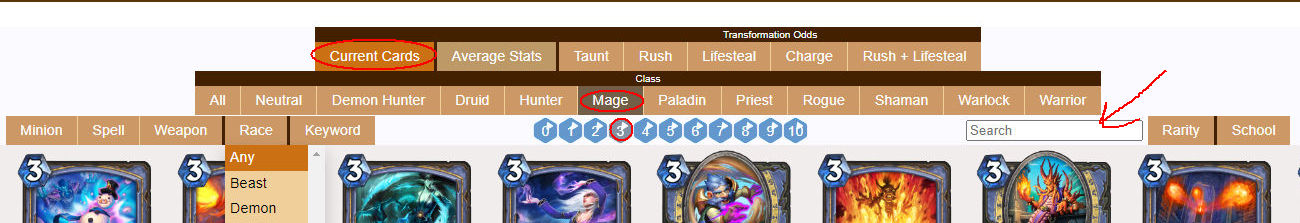
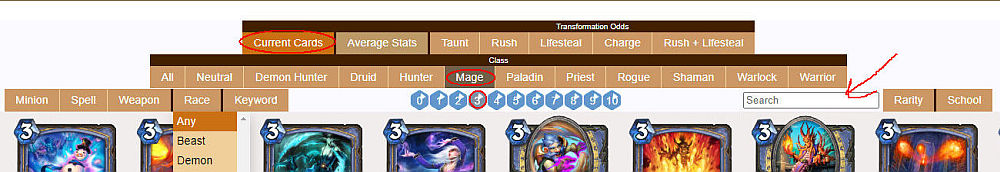
Add Secret type to filter
Added a special type 'Secret' which will only show secrets.

Changed region(s): [[0.0, 0.6686, 0.992, 1.0], [0.0, 0.1163, 0.992, 0.6686], [0.0, 0.0, 1.0, 0.0291]]

diff --git a/index.html b/index.html
@@ -80,6 +80,7 @@
           <li><a href="#" class="nav-list__button nav-list__button-standard">Minion</a></li>
           <li><a href="#" class="nav-list__button nav-list__button-standard">Spell</a></li>
           <li><a href="#" class="nav-list__button nav-list__button-standard">Weapon</a></li>
+          <li><a href="#" class="nav-list__button nav-list__button-standard">Secret</a></li>
         </ul>
       </div>
       <div class="nav__element nav__element-padding"></div>
@@ -100,7 +101,26 @@
           </div>
         </div>
       </div>
-      <div class="nav__element nav__element-padding"></div>
+    </div>
+    <div class="nav__element">
+      <ul class="nav__list nav__list-cost">
+        <li><a href="#" class="nav-list__button">0</a></li>
+        <li><a href="#" class="nav-list__button">1</a></li>
+        <li><a href="#" class="nav-list__button">2</a></li>
+        <li><a href="#" class="nav-list__button">3</a></li>
+        <li><a href="#" class="nav-list__button">4</a></li>
+        <li><a href="#" class="nav-list__button">5</a></li>
+        <li><a href="#" class="nav-list__button">6</a></li>
+        <li><a href="#" class="nav-list__button">7</a></li>
+        <li><a href="#" class="nav-list__button">8</a></li>
+        <li><a href="#" class="nav-list__button">9</a></li>
+        <li><a href="#" class="nav-list__button">10</a></li>
+      </ul>
+    </div>
+    <div class="nav__row">
+      <div class="nav__element">
+        <input type="text" class="input-search" placeholder="Search" minlength="3" maxlength=30">
+      </div>
       <div class="nav__element">
         <div class="dropdown">
           <a href="#" class="nav-list__button nav-list__button-standard" data-name="keyword">Keyword</a>
@@ -140,27 +160,8 @@
             <a href="#">Windfury</a>
           </div>
         </div>
-      </div>      
-    </div>
-    <div class="nav__element">
-      <ul class="nav__list nav__list-cost">
-        <li><a href="#" class="nav-list__button">0</a></li>
-        <li><a href="#" class="nav-list__button">1</a></li>
-        <li><a href="#" class="nav-list__button">2</a></li>
-        <li><a href="#" class="nav-list__button">3</a></li>
-        <li><a href="#" class="nav-list__button">4</a></li>
-        <li><a href="#" class="nav-list__button">5</a></li>
-        <li><a href="#" class="nav-list__button">6</a></li>
-        <li><a href="#" class="nav-list__button">7</a></li>
-        <li><a href="#" class="nav-list__button">8</a></li>
-        <li><a href="#" class="nav-list__button">9</a></li>
-        <li><a href="#" class="nav-list__button">10</a></li>
-      </ul>
-    </div>
-    <div class="nav__row">
-      <div class="nav__element">
-        <input type="text" class="input-search" placeholder="Search" minlength="3" maxlength=30">
       </div>
+      <div class="nav__element nav__element-padding"></div>
       <div class="nav__element">
         <div class="dropdown">
           <a href="#" class="nav-list__button nav-list__button-standard" data-name="rarity">Rarity</a>

diff --git a/js/main.js b/js/main.js
@@ -304,8 +304,13 @@ let HSArenaInfo = (function() {
                 return false;
         }
         if (filter.type !== '') {
-            if (filter.type !== card.type)
+            if (filter.type !== 'SECRET' && filter.type !== card.type)
                 return false;
+            else if (filter.type === 'SECRET')
+                if (card.text !== undefined && !card.text.startsWith('<b>Secret:</b>'))
+                    return false;
+                else if (card.text === undefined)
+                    return false;
         }
         if (filter.race !== '') {
             if (filter.race !== 'MECH' && filter.race !== card.race)
